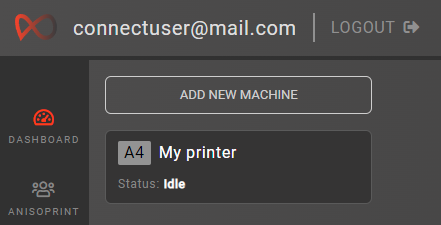
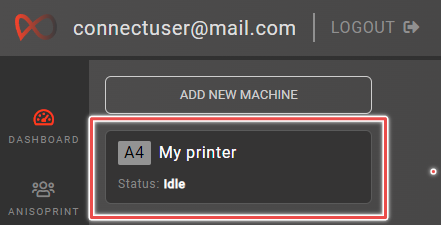
[AC-337] Quickstart images now have annotations

Changed region(s): [[0.1769, 0.4978, 0.8844, 0.9956], [0.9728, 0.7467, 1.0, 0.7778]]

diff --git a/docs/aura-connect/quickstart/index.md b/docs/aura-connect/quickstart/index.md
@@ -68,7 +68,7 @@ Aura.Connect allows you to remotely queue print jobs for your printers. For that
 
     ![Library button in the sidebar](./media/library_button_in_the_sidebar.png)
 
-2. Click on the **'Add new file'** button [1] and you will see a [File upload form](/aura-connect/gui/#add-file-form) appear [2].
+2. Click on the **'Add new file'** button [1] and you will see a [File upload form](/aura-connect/gui/#add-file-form) [2] appear.
 
     ![Library screen with file upload form](./media/library_screen_with_file_upload_form.png)
 
@@ -81,7 +81,7 @@ Aura.Connect allows you to remotely queue print jobs for your printers. For that
 5. Click on the **'Upload'** button.
 
 
-After some time you will see a new row appear in the [Files](/aura-connect/gui/#files-panel) area. You can inspect the uploaded files by clicking on the newly created row
+After some time you will see a new row [1] appear in the [Files](/aura-connect/gui/#files-panel) area. You can inspect the uploaded files by clicking on the newly created row. [File inspector](/aura-connect/gui/#file-inspector) [2] will apear on the right
 
 ![Library screen after upload](./media/library_screen_after_upload.png)
 
@@ -107,7 +107,7 @@ At this point, Aura.Connect is connected to a physcial printer and is ready to q
 
 If steps above were completed successfully, a new job contatining .gcode in the selected file has just been queued onto a printer of your choice.
 
-You can queue more jobs, as needed. Or click on the job card on the left to inspect it and change its order in the queue.
+You can queue more jobs, as needed. Or click on the [Job card](/aura-connect/gui/#job-cards) [1] on the left to inspect it. You will see a [Job inspector](/aura-connect/gui/#job-inspector) [2] appear on the right
 
 ![Inspection of a queued job](./media/inspection_of_a_queued_job.png)
 
